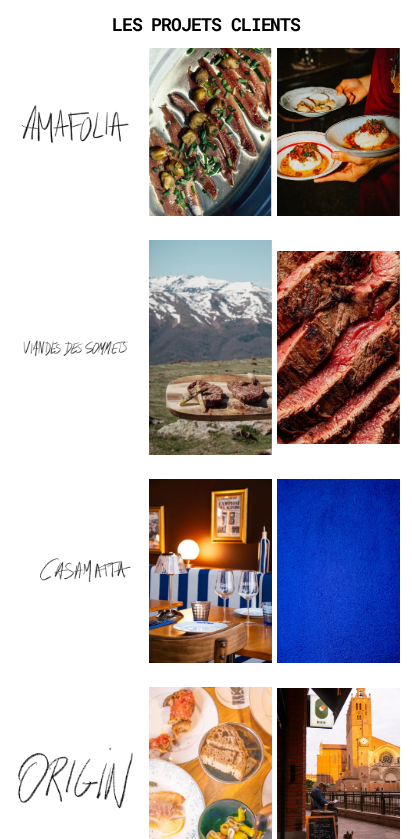
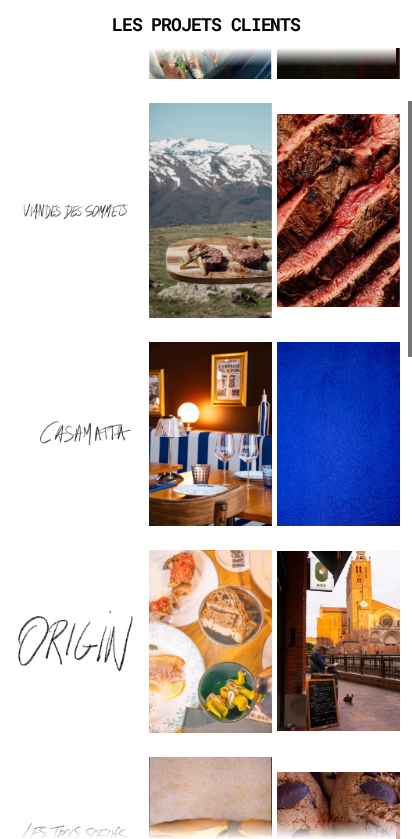
feat(vitrine): animer les repères du défilement interne des projets

diff --git a/apps/web/app/components/vitrine/projects.tsx b/apps/web/app/components/vitrine/projects.tsx
@@ -75,38 +75,45 @@ export function Projects({ basePath }: { basePath: string }) {
       <header className="vitrine-projects-header">
         <h2 id="projects-title">Les projets clients</h2>
       </header>
-      <div className="vitrine-projects-collage">
-        {projects.map(renderProject)}
-        <figure
-          className="vitrine-project vitrine-project-fitness-row"
-          aria-label="Fitness by Leslie"
-          data-side="left"
-          style={
-            {
-              '--first-photo-width': `${338 / 19.2}cqw`,
-              '--second-photo-width': `${352 / 19.2}cqw`,
-              '--project-name-width': '16cqw',
-            } as CSSProperties
-          }
+      <div className="vitrine-projects-viewport">
+        <div
+          className="vitrine-projects-collage"
+          role="group"
+          aria-label="Liste des projets clients"
+          tabIndex={0}
         >
-          <figcaption className="vitrine-project-names">
-            <h3>Fitness by Leslie</h3>
-          </figcaption>
-          <div className="vitrine-project-photos">
-            <Artwork
-              file="Fitness1.png"
-              width={338}
-              height={425}
-              alt="Séance de renforcement avec haltères, Fitness by Leslie."
-            />
-            <Artwork
-              file="Fitness2.png"
-              width={352}
-              height={441}
-              alt="Séance de fitness avec ballon, Fitness by Leslie."
-            />
-          </div>
-        </figure>
+          {projects.map(renderProject)}
+          <figure
+            className="vitrine-project vitrine-project-fitness-row"
+            aria-label="Fitness by Leslie"
+            data-side="left"
+            style={
+              {
+                '--first-photo-width': `${338 / 19.2}cqw`,
+                '--second-photo-width': `${352 / 19.2}cqw`,
+                '--project-name-width': '16cqw',
+              } as CSSProperties
+            }
+          >
+            <figcaption className="vitrine-project-names">
+              <h3>Fitness by Leslie</h3>
+            </figcaption>
+            <div className="vitrine-project-photos">
+              <Artwork
+                file="Fitness1.png"
+                width={338}
+                height={425}
+                alt="Séance de renforcement avec haltères, Fitness by Leslie."
+              />
+              <Artwork
+                file="Fitness2.png"
+                width={352}
+                height={441}
+                alt="Séance de fitness avec ballon, Fitness by Leslie."
+              />
+            </div>
+          </figure>
+        </div>
       </div>
     </section>
   );

diff --git a/e2e/projects.spec.ts b/e2e/projects.spec.ts
@@ -1,7 +1,7 @@
 import { expect, test } from '@playwright/test';
 
 for (const javaScriptEnabled of [false, true]) {
-  test(`le titre reste en haut jusqu’au dernier projet, JavaScript ${javaScriptEnabled}`, async ({
+  test(`la galerie défile sous son titre puis laisse place au contact, JavaScript ${javaScriptEnabled}`, async ({
     browser,
   }) => {
     const context = await browser.newContext({
@@ -26,21 +26,53 @@ for (const javaScriptEnabled of [false, true]) {
           name: 'Fitness by Leslie',
         });
         const header = section.locator('header');
+        const gallery = section.getByRole('group', {
+          name: 'Liste des projets clients',
+        });
+        const viewportEdges = section.locator('.vitrine-projects-viewport');
         await expect(title).toBeInViewport({ ratio: 1 });
         await expect(lastProject).not.toBeInViewport();
         const mainWidth = await page
           .getByRole('main')
           .evaluate((main) => main.clientWidth);
         expect((await header.boundingBox())?.width).toBe(mainWidth);
+        await expect
+          .poll(async () => (await header.boundingBox())?.y)
+          .toBeCloseTo(0, 0);
+        if (javaScriptEnabled) {
+          await expect
+            .poll(() =>
+              viewportEdges.evaluate(
+                (el) => getComputedStyle(el, '::after').opacity,
+              ),
+            )
+            .toBe('1');
+          await page.evaluate(() => window.scrollBy(0, -120));
+          expect((await header.boundingBox())?.y).toBeCloseTo(120, 0);
+        }
 
         await page.mouse.move(viewport.width / 2, viewport.height / 2);
         await page.mouse.wheel(0, 250);
-        await expect.poll(async () => (await header.boundingBox())?.y).toBe(0);
+        await expect
+          .poll(() => gallery.evaluate((el) => el.scrollTop))
+          .toBeGreaterThan(0);
+        await expect
+          .poll(async () => (await header.boundingBox())?.y)
+          .toBeCloseTo(0, 0);
 
-        await lastProject.scrollIntoViewIfNeeded();
+        await gallery.press('End');
         await expect(lastProject).toBeInViewport({ ratio: 1 });
         await expect(title).toBeInViewport({ ratio: 1 });
-        expect((await header.boundingBox())?.y).toBe(0);
+        expect((await header.boundingBox())?.y).toBeCloseTo(0, 0);
+        if (javaScriptEnabled) {
+          await expect
+            .poll(() =>
+              viewportEdges.evaluate(
+                (el) => getComputedStyle(el, '::after').opacity,
+              ),
+            )
+            .toBe('0');
+        }
 
         await page.mouse.wheel(0, viewport.height);
         await expect(title).not.toBeInViewport();

diff --git a/apps/web/app/components/vitrine/vitrine.css b/apps/web/app/components/vitrine/vitrine.css
@@ -425,9 +425,15 @@ body:has(.vitrine) {
   left: 15.67cqw;
   top: -1px;
 }
+:root:has(.vitrine-projects:target) {
+  scroll-padding-top: 0;
+  scroll-behavior: auto;
+}
 .vitrine-projects {
+  display: grid;
+  grid-template-rows: auto minmax(0, 1fr);
+  max-block-size: 100svh;
   margin-block-start: clamp(60px, 6cqw, 112px);
-  scroll-margin-top: 32px;
 }
 .vitrine-projects-header {
   position: sticky;
@@ -440,7 +446,48 @@ body:has(.vitrine) {
 .vitrine-projects-collage {
   display: grid;
   gap: 2cqw;
-  padding: clamp(12px, 1.25cqw, 24px) clamp(12px, 3cqw, 32px) 0;
+  padding: clamp(12px, 1.25cqw, 24px) clamp(12px, 3cqw, 32px);
+  overflow-y: auto;
+  scrollbar-width: thin;
+  scrollbar-color: #767676 var(--vitrine-paper);
+  scrollbar-gutter: stable both-edges;
+}
+.vitrine-projects-collage:focus-visible {
+  outline-offset: -4px;
+}
+.vitrine-projects-viewport {
+  position: relative;
+  display: grid;
+  grid-template-rows: minmax(0, 1fr);
+}
+.vitrine-projects-viewport::before,
+.vitrine-projects-viewport::after {
+  position: absolute;
+  z-index: 1;
+  inset-inline: 16px;
+  block-size: 18px;
+  content: '';
+  pointer-events: none;
+  opacity: 0;
+  transition: opacity 180ms ease-out;
+}
+.vitrine-projects-viewport::before {
+  inset-block-start: 0;
+  background: linear-gradient(to bottom, var(--vitrine-paper), transparent);
+}
+.vitrine-projects-viewport::after {
+  inset-block-end: 0;
+  background: linear-gradient(to top, var(--vitrine-paper), transparent);
+}
+.vitrine-projects[data-projects-above] .vitrine-projects-viewport::before,
+.vitrine-projects[data-projects-below] .vitrine-projects-viewport::after {
+  opacity: 1;
+}
+@media (prefers-reduced-motion: reduce) {
+  .vitrine-projects-viewport::before,
+  .vitrine-projects-viewport::after {
+    transition: none;
+  }
 }
 .vitrine-project {
   display: grid;
@@ -481,7 +528,7 @@ body:has(.vitrine) {
   display: block;
   width: 100%;
   height: 100%;
-  scroll-margin-block-start: 64px;
+  scroll-margin-block: 18px;
 }
 .vitrine-project-mirror {
   transform: scaleX(-1);

diff --git a/apps/web/app/enhancements.ts b/apps/web/app/enhancements.ts
@@ -15,6 +15,42 @@ if (
   observer.observe(manifesto);
 }
 
+const projects = document.querySelector('#projets');
+const gallery = projects?.querySelector<HTMLElement>(
+  '.vitrine-projects-collage',
+);
+if (projects && gallery) {
+  let previousScrollTop = gallery.scrollTop;
+  const updateProjectsEdges = () => {
+    const { scrollTop, scrollHeight, clientHeight } = gallery;
+    projects.toggleAttribute('data-projects-above', scrollTop > 1);
+    projects.toggleAttribute(
+      'data-projects-below',
+      scrollHeight - clientHeight - scrollTop > 1,
+    );
+  };
+  gallery.addEventListener(
+    'scroll',
+    () => {
+      const scrollTop = gallery.scrollTop;
+      const movingDown = scrollTop > previousScrollTop;
+      previousScrollTop = scrollTop;
+      updateProjectsEdges();
+
+      if (!movingDown) return;
+      const { top } = projects.getBoundingClientRect();
+      if (top > 1 && top < innerHeight) {
+        window.scrollBy({ top, behavior: 'instant' });
+      }
+    },
+    { passive: true },
+  );
+  if ('ResizeObserver' in window) {
+    new ResizeObserver(updateProjectsEdges).observe(gallery);
+  }
+  updateProjectsEdges();
+}
+
 const contact = document.querySelector<HTMLFormElement>(
   '.vitrine-contact-form[action^="mailto:"]',
 );
